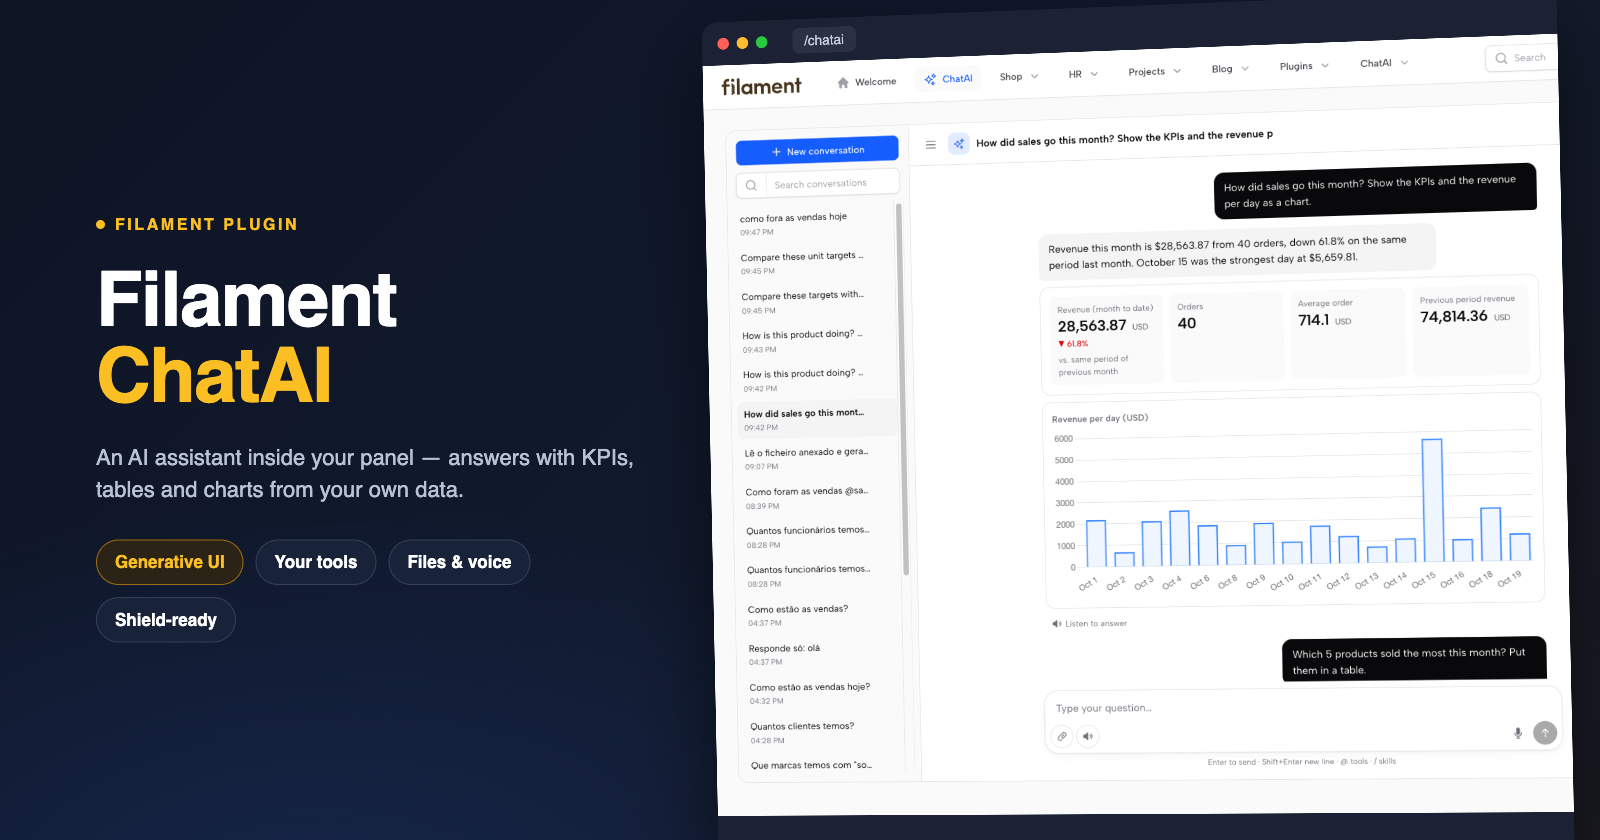
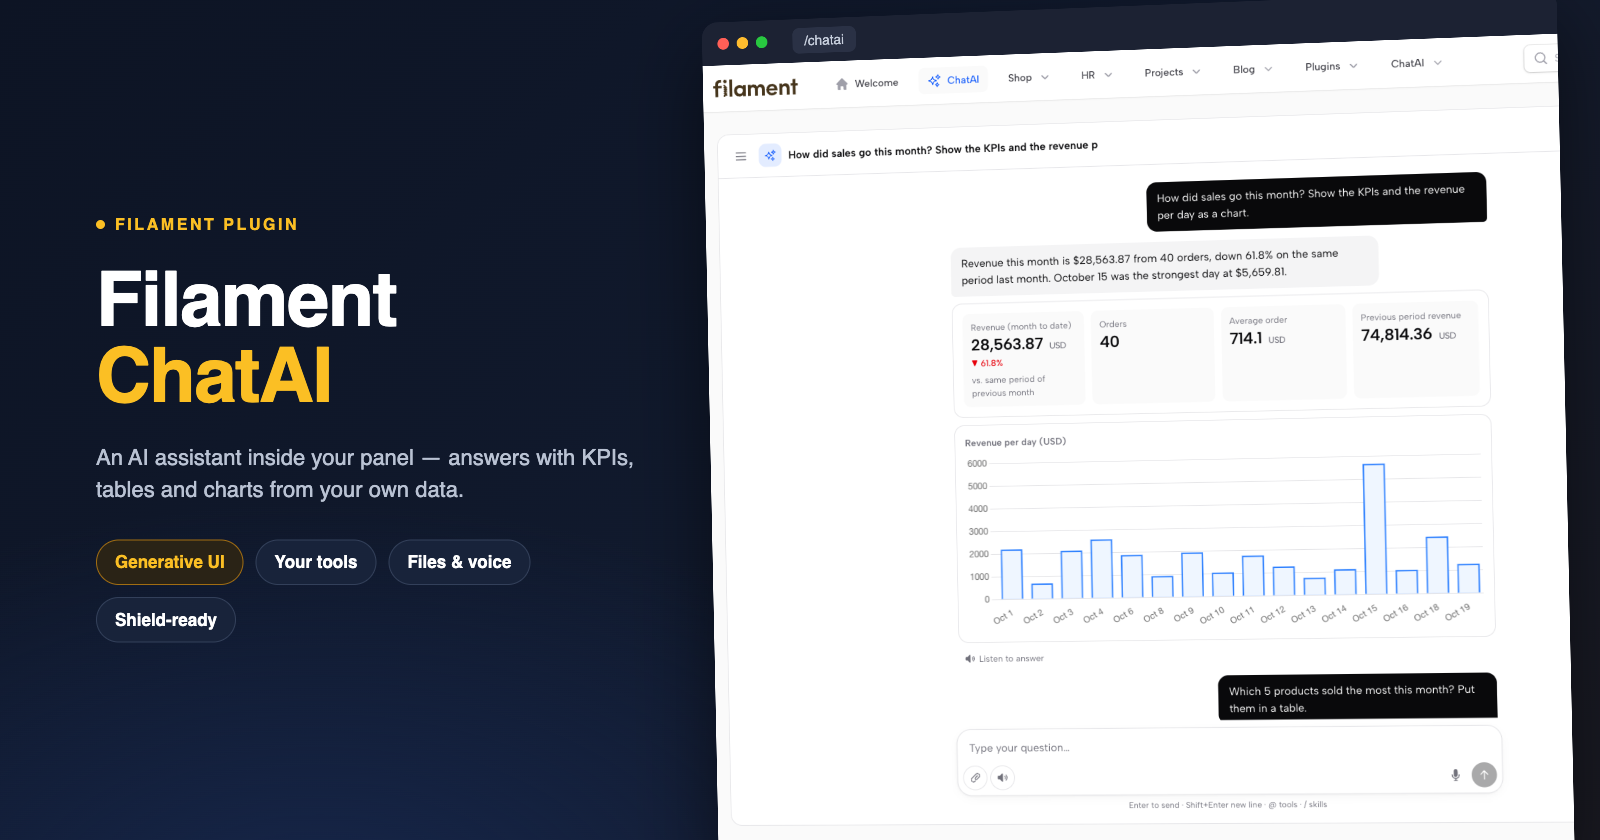
README: chat without the history panel, plus a history screenshot

diff --git a/README.md b/README.md
@@ -12,14 +12,14 @@
     <img src="https://img.shields.io/badge/Filament-v5-FDAE4B?style=flat-square" alt="Filament v5">
     <img src="https://img.shields.io/badge/PHP-8.2+-777BB4?style=flat-square&logo=php&logoColor=white" alt="PHP 8.2+">
     <img src="https://img.shields.io/badge/Laravel-11%20|%2012%20|%2013-FF2D20?style=flat-square&logo=laravel&logoColor=white" alt="Laravel 11, 12, 13">
-    <img src="https://img.shields.io/badge/tests-141%20passing-brightgreen?style=flat-square" alt="Tests">
+    <img src="https://img.shields.io/badge/tests-145%20passing-brightgreen?style=flat-square" alt="Tests">
     <img src="https://img.shields.io/badge/license-MIT-blue?style=flat-square" alt="MIT License">
 </p>
 
 ---
 
 - **Floating chat** in the corner of every page, aware of the record on screen.
-- **Full-page chat** (`/{panel}/chatai`) with conversation history — the same conversation as the floating one.
+- **Full-page chat** (`/{panel}/chatai`) with a history you can organise: pinned conversations, groups, renaming — the same conversation as the floating one.
 - **Generative UI**: the model answers with KPIs, sortable tables, Filament-styled charts and follow-up suggestions, not just text.
 - **Your tools**: plug in existing `laravel/mcp` tools, or build tools on screen (Resource queries, HTTP APIs) and test them in a chat next to the form. Read-only, for now.
 - **Files**: attach documents, paste links to records of the panel, and get CSV, Excel or PDF files back.
@@ -29,9 +29,13 @@
 
 ## Screenshots
 
-#### Full-page chat — history, KPIs and charts from the shop data
+#### Full-page chat — KPIs and charts from the shop data
 
 <img src="art/screenshots/full-page.png" alt="Full-page chat with KPIs and a chart" width="100%">
+
+#### History — pin conversations, group them in folders, rename in place
+
+<img src="art/screenshots/history.png" alt="History with pinned conversations and groups" width="280">
 
 #### Floating chat — knows the record on screen
 
